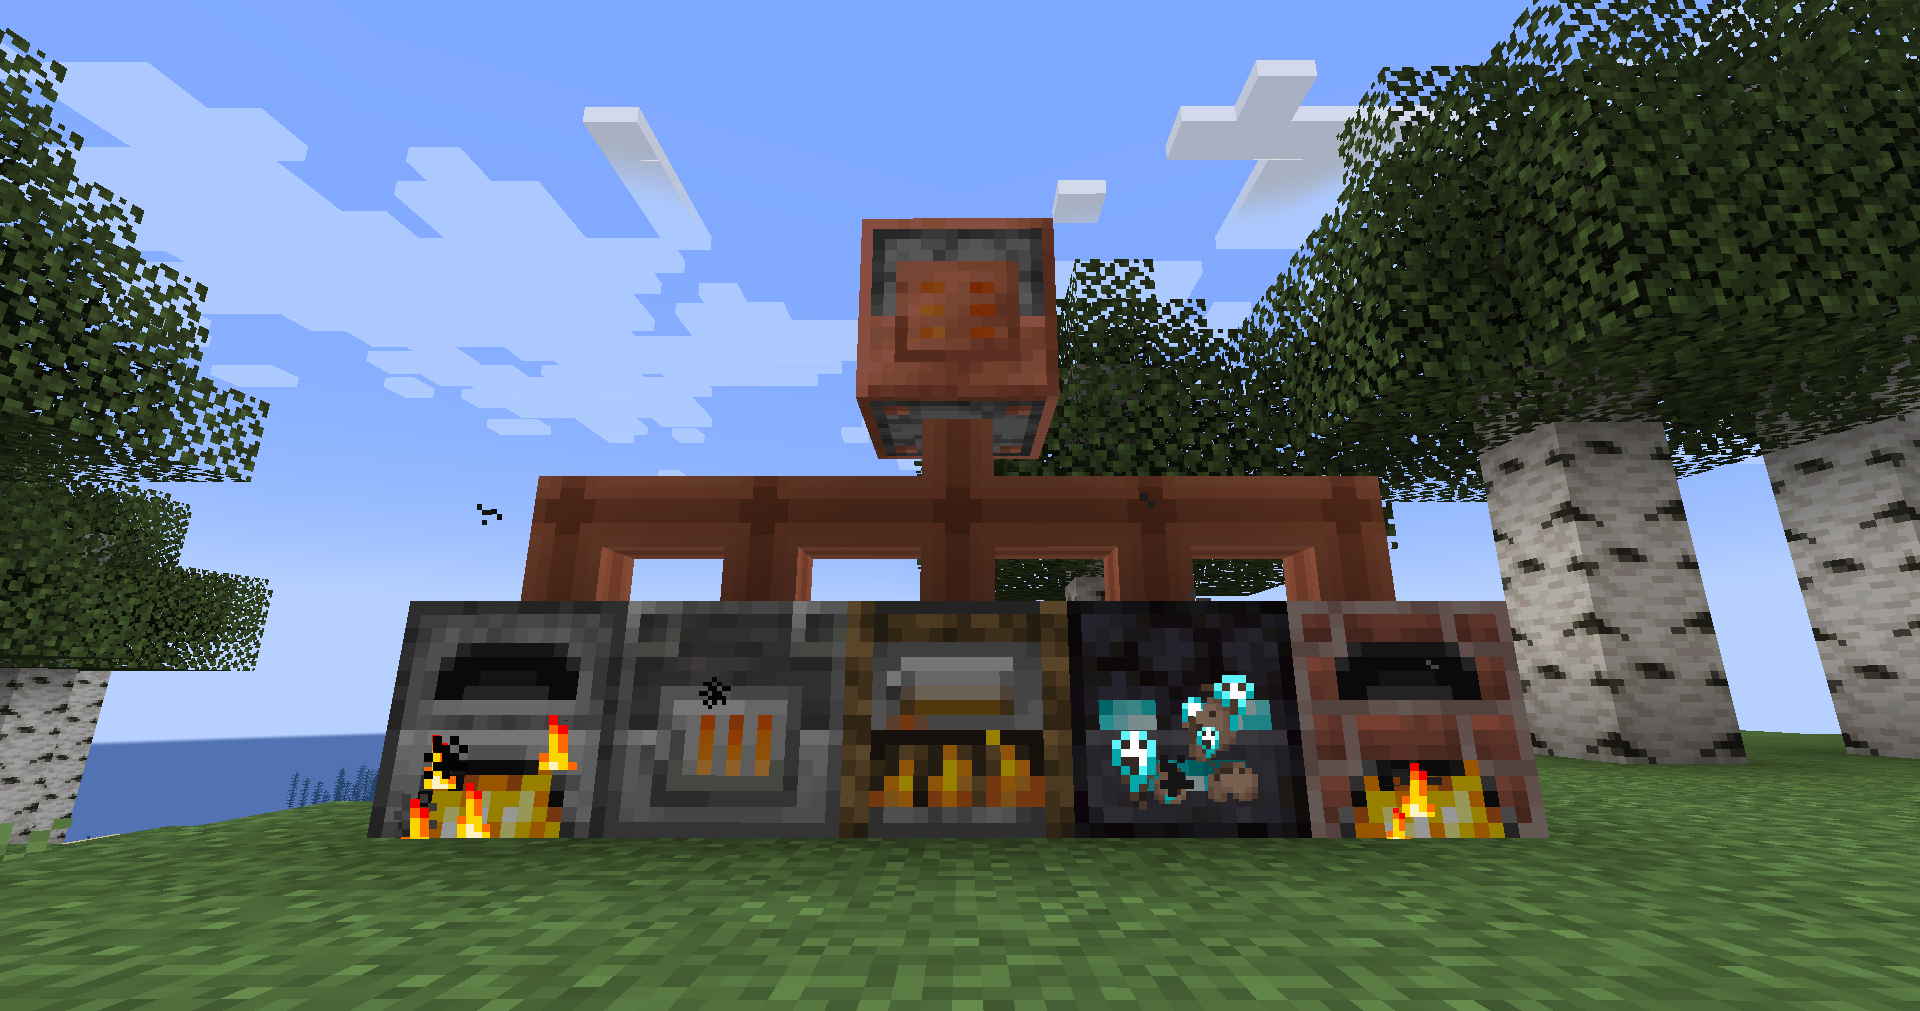
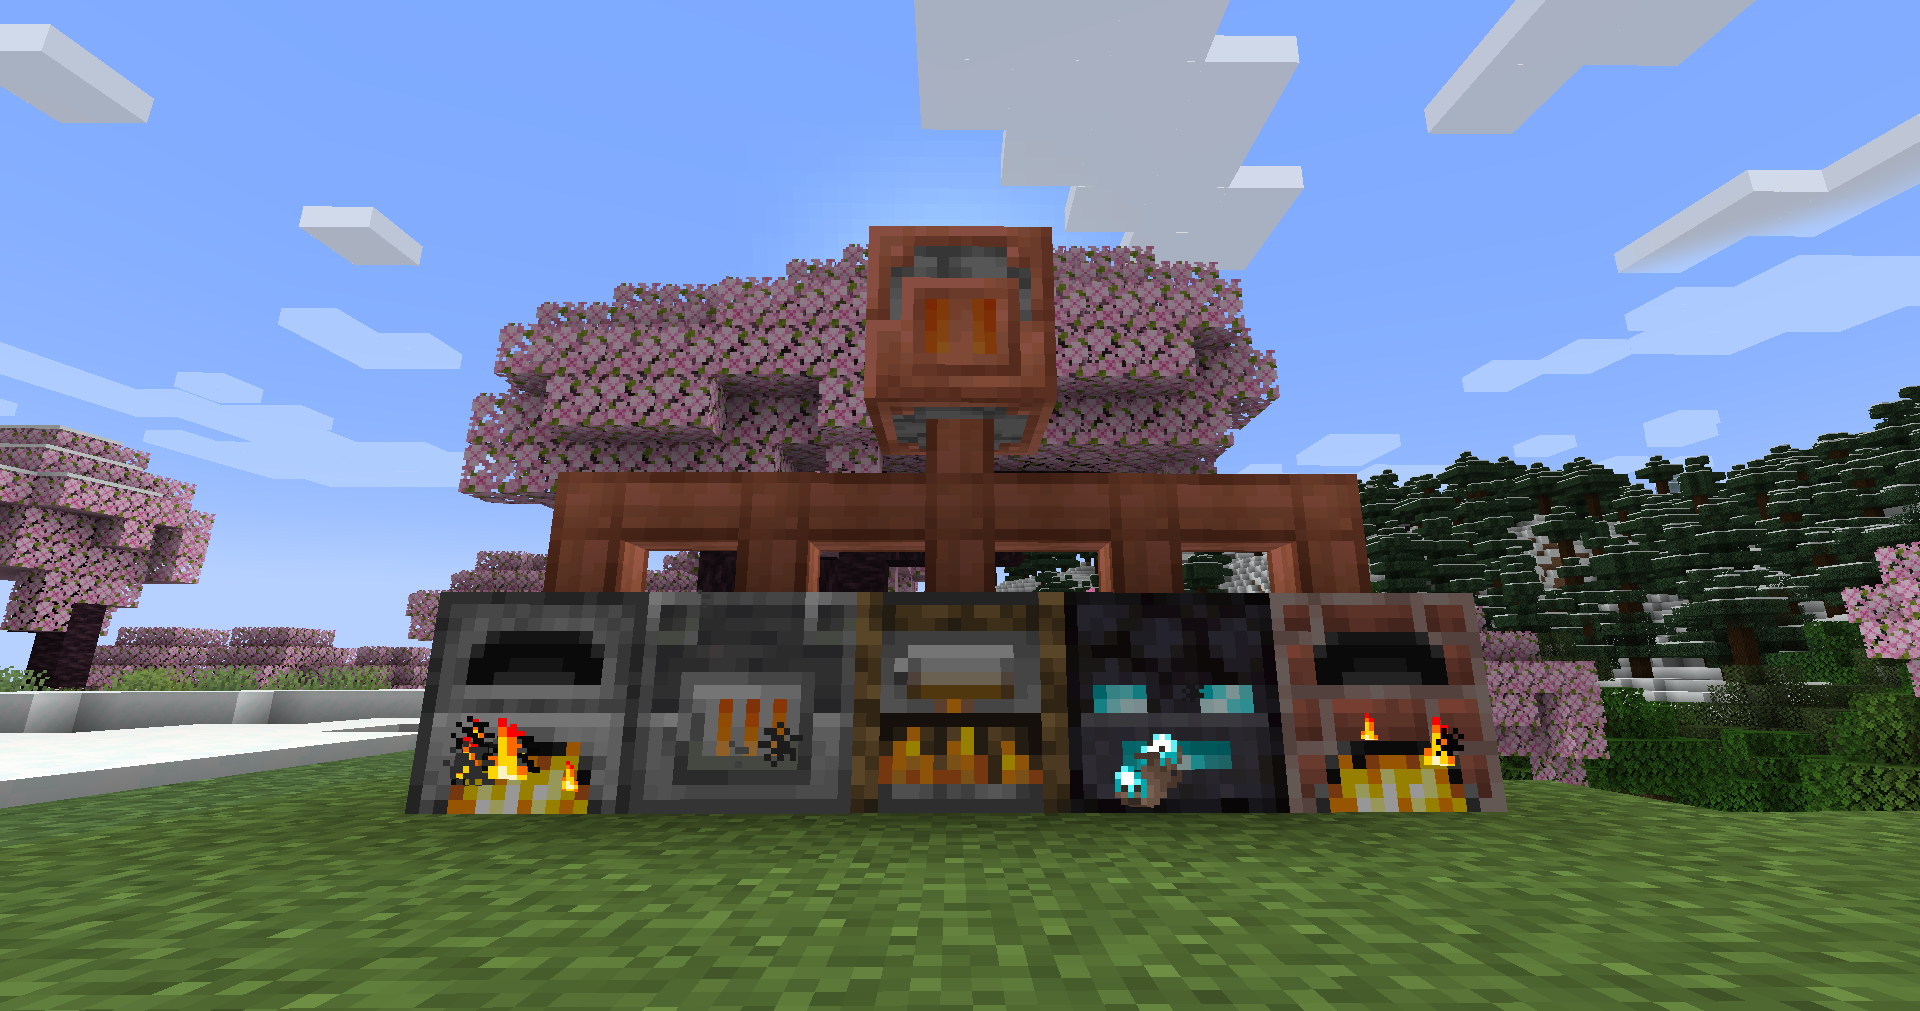
Update README and images

diff --git a/README.md b/README.md
@@ -16,6 +16,10 @@ Not in any particular order.
 
 I am considering whether or not to add redstone logic to the Heater so that it doesn't propagate heat when powered. Until I reach a consensus between me, myself, and yours truly, I'll implement nothing.
 
-I don't quite like the Heat Pipe's texture, but I haven't yet been able to do better. However, I have already spent too many afternoons drawing ugly pixelled textures for now and the foreseeable future, so that's on hold. I guess the same goes for Heater block, although I don't dislike it as much.
+~~I don't quite like the Heat Pipe's texture, but I haven't yet been able to do better. However, I have already spent too many afternoons drawing ugly pixelled textures for now and the foreseeable future, so that's on hold. I guess the same goes for Heater block, although I don't dislike it as much.~~
 
-Finally, since the Heater and the Heat Pipe are both copper-based blocks, I should add some oxidation logic to them, but again, textures, see above.
+~~Finally, since the Heater and the Heat Pipe are both copper-based blocks, I should add some oxidation logic to them, but again, textures, see above.~~
+
+Thanks to [StarOcean](https://github.com/0Starocean0) for the amazing new textures they created!
+
+Apparently, adding new oxidizing blocks isn't as easy as I initially presumed... Anyhow, now that I have the textures, the planned feature is implementing the oxidization process for the new blocks. I'm getting there.
